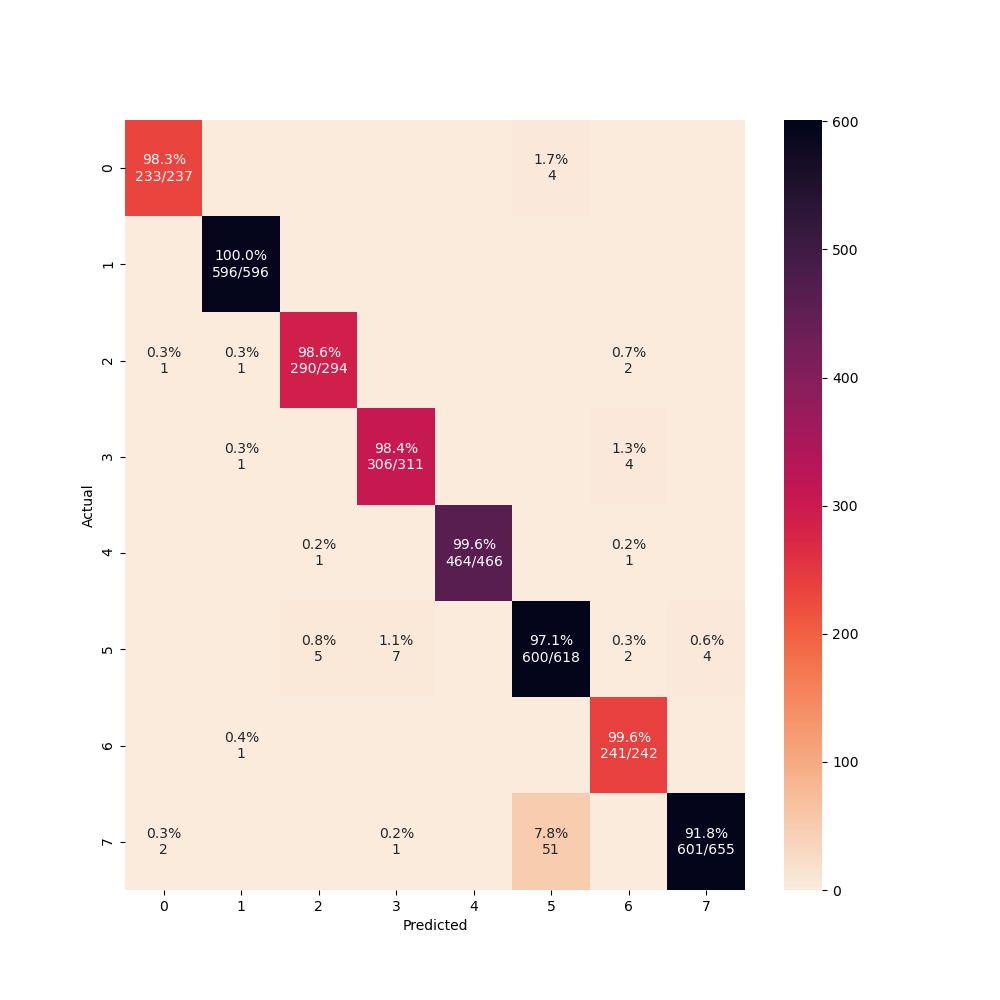
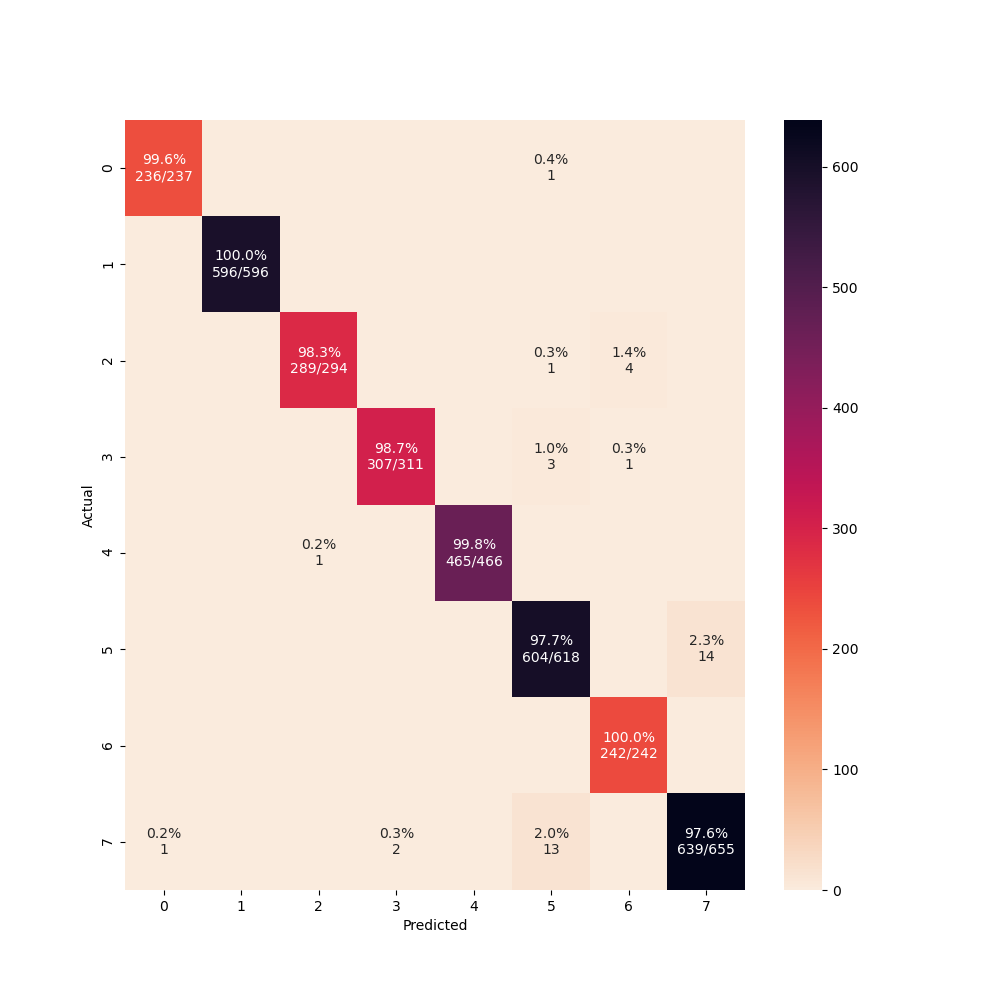
pbc cropped inception resnet v2 fine tuned

diff --git a/Classifier/PBC_cropped_InceptionResNetV2_fine_tuned/fine_tuned.py b/Classifier/PBC_cropped_InceptionResNetV2_fine_tuned/fine_tuned.py
@@ -238,7 +238,7 @@ tensorboard_callback = keras.callbacks.TensorBoard(log_dir=logdir)
 
 history = model.fit(train_gen,
                     steps_per_epoch=len(train_idx)//batch_size,
-                    epochs=1,
+                    epochs=100,
                     callbacks=[tensorboard_callback,callbacks],
                     validation_data=valid_gen,
                     validation_steps=len(valid_idx)//valid_batch_size)
